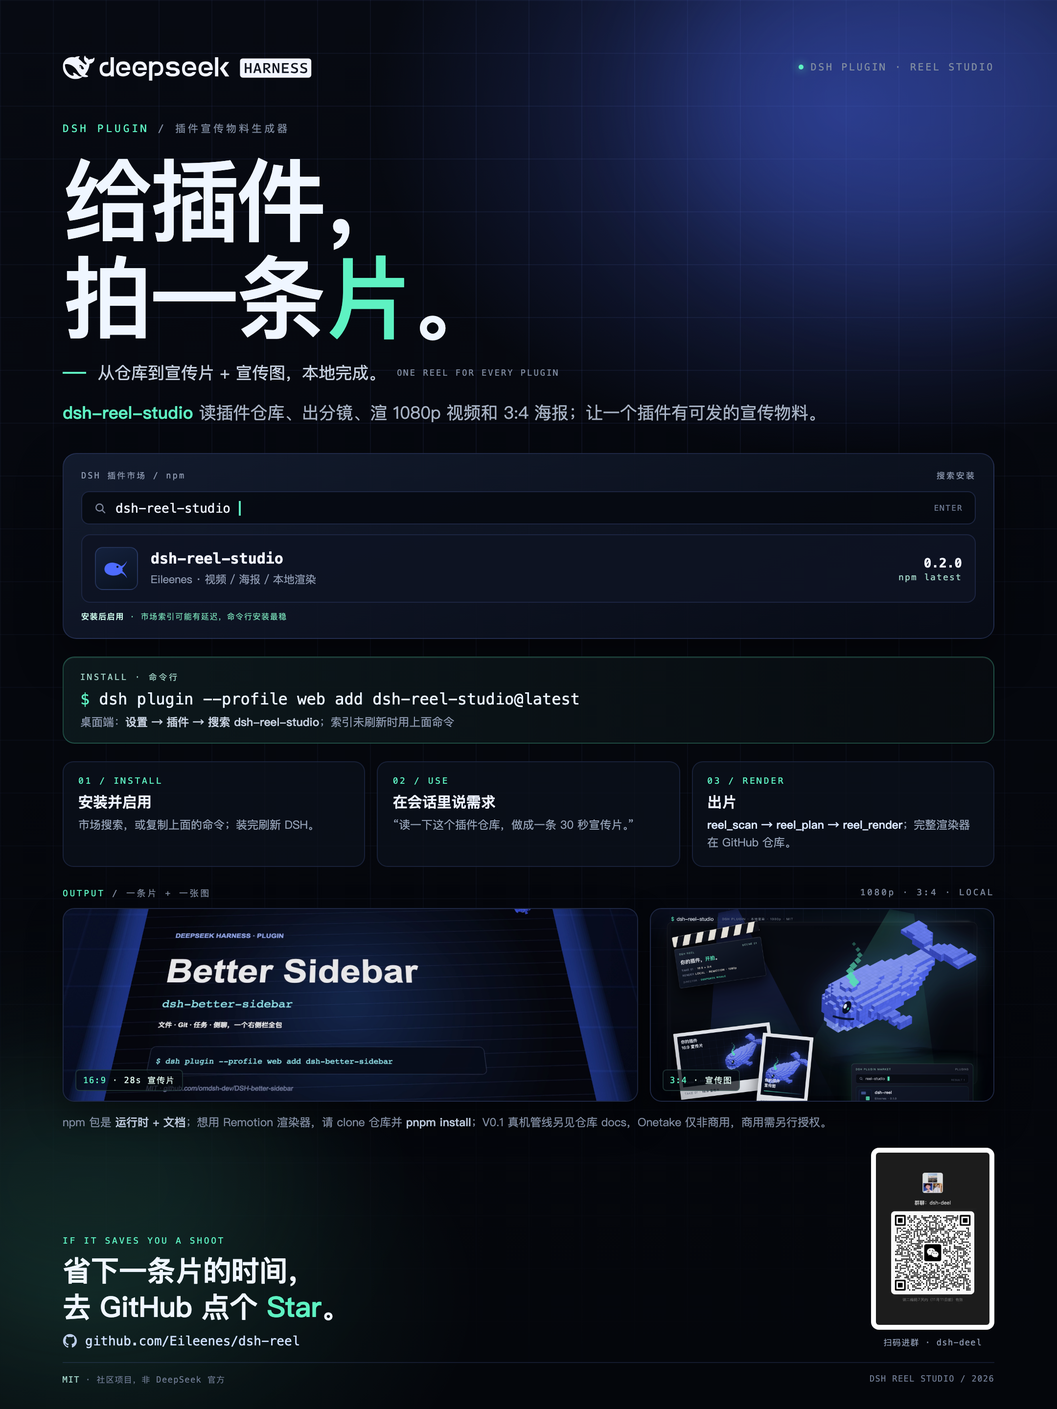
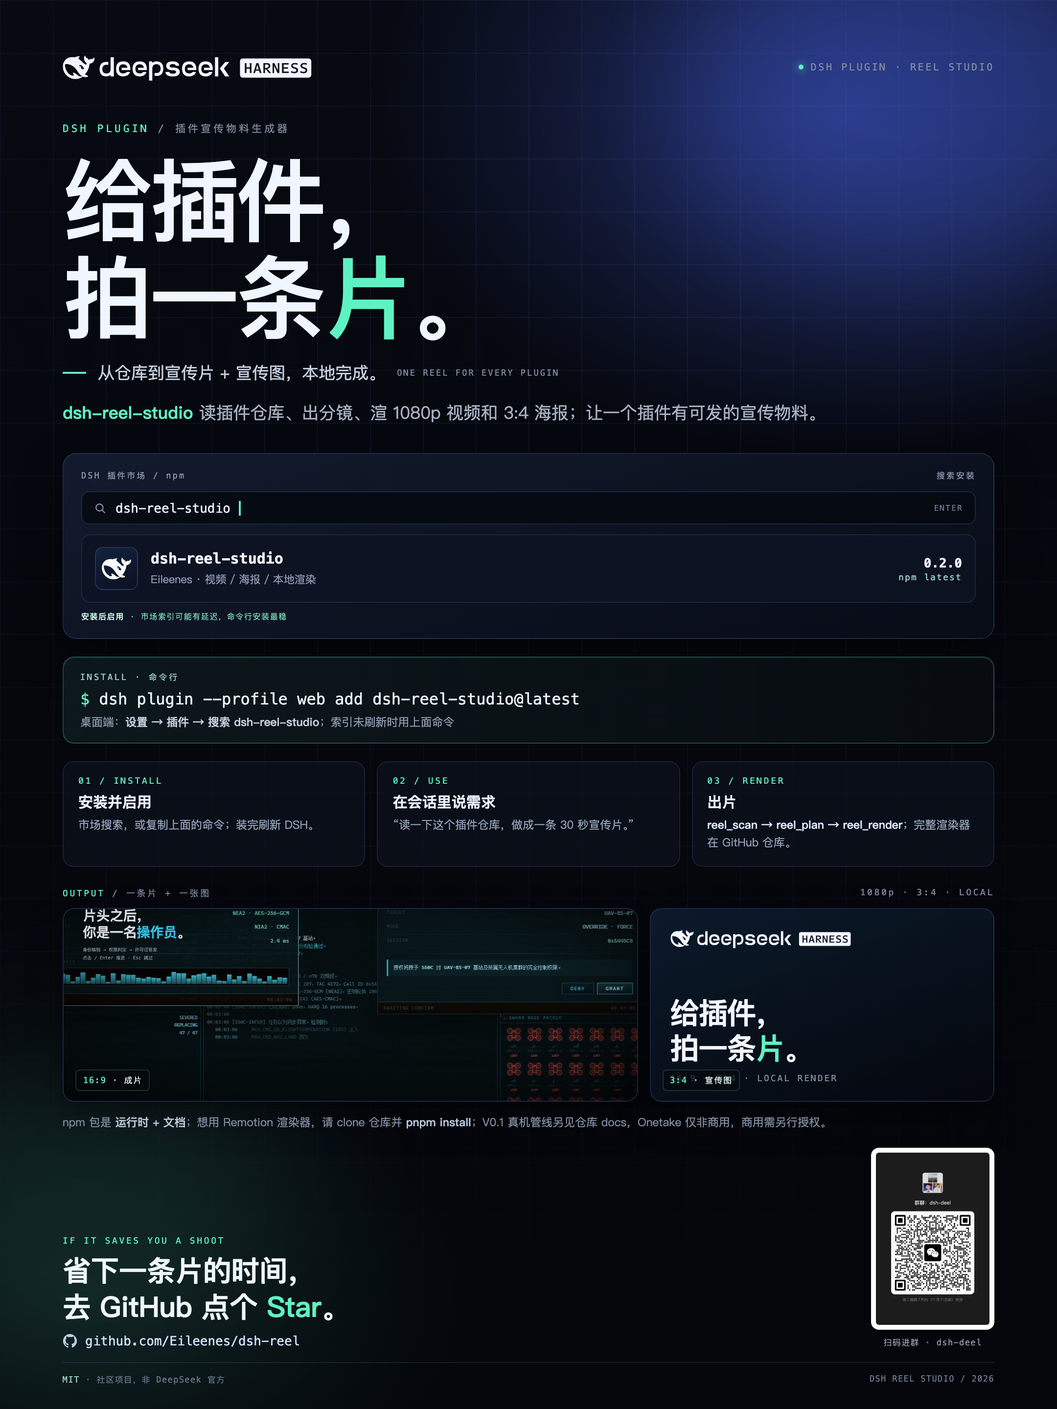
docs(poster): replace all poster whales with official DSH mark

Changed region(s): [[0.062, 0.625, 0.9306, 0.7812], [0.0931, 0.375, 0.1241, 0.4062]]

diff --git a/design/install-poster.html b/design/install-poster.html
@@ -52,7 +52,7 @@
   .mk-search .hint{margin-left:auto;font-family:var(--mono);font-size:8px;letter-spacing:.14em;color:#6f7b93}
   .mk-card{margin-top:10px;display:flex;align-items:center;gap:13px;padding:12px 13px;border-radius:9px;background:rgba(13,19,34,.9);border:1px solid rgba(120,150,255,.14)}
   .mk-ico{width:44px;height:44px;border-radius:8px;flex:none;display:flex;align-items:center;justify-content:center;background:linear-gradient(160deg,#14213d,#0a1220);border:1px solid rgba(120,150,255,.22)}
-  .mk-ico svg{width:30px;height:19px}
+  .mk-ico svg{width:30px;height:22px;display:block}
   .mk-name{font-family:var(--mono);font-size:15px;font-weight:600;color:#f2f5ff}
   .mk-meta{margin-top:4px;font-size:11px;color:#8d99b0}
   .mk-ver{margin-left:auto;text-align:right;font-family:var(--mono);font-size:9px;letter-spacing:.12em;color:#9ecfc3}
@@ -82,6 +82,11 @@
   .out-card img{width:100%;height:196px;object-fit:cover;display:block;opacity:.92}
   .out-card .cap{position:absolute;left:12px;bottom:10px;font-family:var(--mono);font-size:8.5px;letter-spacing:.1em;color:#dff7ee;background:rgba(4,8,14,.7);border:1px solid rgba(120,200,180,.2);border-radius:4px;padding:4px 7px}
   .out-card .cap b{color:var(--accent);font-weight:500}
+  .poster-mock{background:linear-gradient(160deg,#0b1a2b,#05070d);padding:18px 20px;display:flex;flex-direction:column;justify-content:space-between}
+  .poster-mock .pm-dsh-logo{width:190px;height:auto;display:block}
+  .poster-mock .pm-title{margin-top:14px;font-family:var(--sans);font-size:30px;font-weight:700;letter-spacing:-.03em;color:#f2f5ff;line-height:1.2}
+  .poster-mock .pm-title b{color:var(--accent);font-weight:700}
+  .poster-mock .pm-sub{margin-top:8px;font-family:var(--mono);font-size:9px;letter-spacing:.16em;color:#7f8ba0}
   .note{margin-top:13px;font-size:11.5px;line-height:1.55;color:#7f8ba0}
   .note b{color:#b9c6d9;font-weight:500}
 
@@ -124,7 +129,7 @@
       <span class="q">dsh-reel-studio</span><span class="caret"></span><span class="hint">ENTER</span>
     </div>
     <div class="mk-card">
-      <div class="mk-ico"><svg viewBox="0 0 40 26"><path d="M3.2 13.2C3.2 6.6 9.6 3.2 16.2 4.2 22.8 5.2 28.6 9 28.6 13.8 28.6 19 22.2 22.2 15.7 22.2 9.2 22.2 3.2 19 3.2 13.2Z" fill="#4D6BFE"/><path d="M27.6 12.4C31 9.2 33.8 5.6 34.8 1.6 32.2 5.8 29.4 8.2 26 9.2L27.6 12.4Z" fill="#4D6BFE"/><path d="M27.6 15.2C31 18.4 33.8 22 34.8 26 32.2 21.8 29.4 19.4 26 18.4L27.6 15.2Z" fill="#4D6BFE"/><circle cx="21.4" cy="10" r="1.5" fill="#0a1220"/></svg></div>
+      <div class="mk-ico"><svg class="dsh-whale" viewBox="0.14 3.5 23.16 17.04" aria-hidden="true"><path d="M23.0584 4.95215C22.8129 4.83215 22.7074 5.06116 22.5639 5.17716C22.5149 5.21466 22.4734 5.26366 22.4319 5.30866C22.0734 5.69167 21.6543 5.94318 21.1073 5.91318C20.3073 5.86818 19.6243 6.11969 19.0203 6.73171C18.8918 5.97718 18.4652 5.52667 17.8162 5.23766C17.4767 5.08766 17.1332 4.93715 16.8952 4.61064C16.7292 4.37814 16.6837 4.11913 16.6007 3.86362C16.5477 3.70962 16.4952 3.55211 16.3177 3.52561C16.1252 3.49561 16.0497 3.65711 15.9742 3.79212C15.6722 4.34413 15.5552 4.95215 15.5667 5.56817C15.5932 6.95371 16.1782 8.05725 17.3407 8.84227C17.4727 8.93227 17.5067 9.02227 17.4652 9.15378C17.3857 9.42429 17.2917 9.68679 17.2087 9.9573C17.1557 10.1298 17.0767 10.1678 16.8917 10.0923C16.2537 9.8258 15.7027 9.43129 15.2156 8.95477C14.3891 8.15525 13.6416 7.27272 12.7096 6.5817C12.4906 6.4202 12.2716 6.27019 12.045 6.12719C11.094 5.20366 12.1696 4.44514 12.4186 4.35513C12.6791 4.26113 12.5091 3.93812 11.6675 3.94212C10.826 3.94562 10.056 4.22763 9.07446 4.60314C8.93096 4.65964 8.77995 4.70065 8.62545 4.73465C7.73492 4.56564 6.80989 4.52814 5.84386 4.63714C4.02481 4.83965 2.57177 5.69967 1.50373 7.16772C0.220694 8.93227 -0.0813148 10.9373 0.288196 13.0284C0.676708 15.2325 1.80174 17.057 3.53029 18.4836C5.32285 19.9626 7.38741 20.6876 9.74298 20.5486C11.1735 20.4661 12.7661 20.2746 14.5626 18.7541C15.0156 18.9796 15.4912 19.0696 16.2797 19.1371C16.8872 19.1936 17.4722 19.1071 17.9252 19.0131C18.6347 18.8631 18.5857 18.2061 18.3292 18.0855C16.2497 17.117 16.7062 17.511 16.2912 17.192C17.3477 15.942 18.9618 13.7199 19.4598 10.6943C19.5088 10.3603 19.5713 9.8898 19.5638 9.61929C19.5598 9.45429 19.5978 9.39029 19.7863 9.37129C20.3073 9.31128 20.8128 9.16878 21.2773 8.91327C22.6249 8.17725 23.1684 6.96821 23.2964 5.51917C23.3154 5.29766 23.2924 5.06866 23.0584 4.95215ZM11.3165 17.9955C9.30097 16.411 8.32344 15.8895 7.91992 15.912C7.54241 15.9345 7.61042 16.3665 7.69342 16.648C7.78042 16.926 7.89342 17.1175 8.05193 17.3615C8.16143 17.523 8.23694 17.763 7.94243 17.9435C7.29341 18.3451 6.16487 17.8085 6.11187 17.782C4.79833 17.0085 3.7003 15.9875 2.92628 14.5909C2.17875 13.2469 1.74474 11.8049 1.67324 10.2658C1.65424 9.8943 1.76374 9.7628 2.13375 9.69529C2.62077 9.60529 3.12278 9.58629 3.6093 9.65779C5.66636 9.9583 7.41741 10.8778 8.88545 12.3349C9.72348 13.1644 10.3575 14.1559 11.0105 15.1245C11.705 16.153 12.4521 17.133 13.4036 17.9365C13.7396 18.2181 14.0076 18.4321 14.2641 18.5901C13.4906 18.6766 12.1996 18.6951 11.3165 17.9965V17.9955ZM12.2826 11.7819C12.2826 11.6169 12.4146 11.4853 12.5806 11.4853C12.6181 11.4853 12.6521 11.4928 12.6826 11.5038C12.7241 11.5188 12.7621 11.5414 12.7921 11.5754C12.8451 11.6279 12.8751 11.7029 12.8751 11.7819C12.8751 11.9469 12.7431 12.0784 12.5771 12.0784C12.4111 12.0784 12.2826 11.9469 12.2826 11.7819ZM15.2831 13.3209C15.0906 13.3999 14.8981 13.4674 14.7131 13.4749C14.4261 13.4899 14.1131 13.3734 13.9431 13.2309C13.6791 13.0094 13.4901 12.8854 13.4111 12.4989C13.3771 12.3339 13.3961 12.0784 13.4261 11.9319C13.4941 11.6164 13.4186 11.4138 13.1961 11.2298C13.0151 11.0798 12.7846 11.0383 12.5316 11.0383C12.4371 11.0383 12.3506 10.9968 12.2861 10.9633C12.1806 10.9108 12.0936 10.7793 12.1766 10.6178C12.2031 10.5653 12.3316 10.4378 12.3616 10.4153C12.7051 10.2198 13.1011 10.2838 13.4676 10.4303C13.8071 10.5693 14.0641 10.8243 14.4336 11.1848C14.8111 11.6204 14.8791 11.7404 15.0941 12.0674C15.2641 12.3229 15.4186 12.5854 15.5247 12.8859C15.5887 13.0734 15.5057 13.2269 15.2831 13.3209Z" fill="var(--harness-logo-foreground, #F9FAFB)"></path></svg></div>
       <div><div class="mk-name">dsh-reel-studio</div><div class="mk-meta">Eileenes · 视频 / 海报 / 本地渲染</div></div>
       <div class="mk-ver"><b>0.2.0</b>npm latest</div>
     </div>
@@ -146,8 +151,12 @@
   <section class="outputs">
     <div class="out-head"><span><b>OUTPUT</b> / 一条片 + 一张图</span><span>1080p · 3:4 · LOCAL</span></div>
     <div class="out-grid">
-      <div class="out-card"><img src="../docs/better-sidebar-endcard.png" alt="宣传片片尾帧"><div class="cap"><b>16:9</b> · 28s 宣传片</div></div>
-      <div class="out-card"><img src="../docs/promo.png" alt="3:4 宣传图"><div class="cap"><b>3:4</b> · 宣传图</div></div>
+      <div class="out-card"><img src="../docs/output-video.png" alt="宣传片输出帧"><div class="cap"><b>16:9</b> · 成片</div></div>
+      <div class="out-card poster-mock">
+        <svg width="187" height="24" style="--harness-logo-foreground:#F2F5FF;--harness-logo-chip-text:#10141f" viewBox="0 0 187 24" fill="none" xmlns="http://www.w3.org/2000/svg" class="pm-dsh-logo" aria-hidden="true"><path d="M68.4157 18.2447H67.0499V16.1272H68.4157C69.2617 16.1272 70.1163 15.9163 70.6668 15.3304C71.2178 14.7444 71.4258 13.8455 71.4258 12.9471C71.4258 12.0487 71.2266 11.1498 70.6668 10.5643C70.1081 9.97831 69.2617 9.76744 68.4157 9.76744C67.5698 9.76744 66.7151 9.97831 66.1636 10.5643C65.6127 11.1503 65.4047 12.0487 65.4047 12.9471V21.6435H63.0088V7.6582H65.4047V8.54883H65.8439C65.8916 8.49393 65.9392 8.44728 65.9873 8.40064C66.5869 7.85353 67.5047 7.6582 68.407 7.6582C69.8209 7.6582 71.2339 8.00998 72.1605 8.98662C73.0866 9.96325 73.4141 11.4632 73.4141 12.9558C73.4141 14.4485 73.0783 15.9406 72.1605 16.925C71.2421 17.9094 69.8209 18.2457 68.4157 18.2457V18.2447Z" fill="var(--harness-logo-foreground, #F9FAFB)"></path><path d="M31.9549 8.03497H33.3202V10.1525H31.9549C31.1084 10.1525 30.2543 10.3633 29.7033 10.9493C29.1523 11.5353 28.9448 12.4342 28.9448 13.3326C28.9448 14.231 29.1445 15.1294 29.7033 15.7154C30.262 16.3014 31.1084 16.5122 31.9549 16.5122C32.8013 16.5122 33.6559 16.3014 34.2069 15.7154C34.7579 15.1294 34.9654 14.231 34.9654 13.3326V4.62842H37.3608V18.6219H34.9654V17.7313H34.5262C34.4781 17.7857 34.4304 17.8329 34.3823 17.8795C33.7832 18.4261 32.8649 18.6219 31.9626 18.6219C30.5492 18.6219 29.1357 18.2707 28.2096 17.294C27.2835 16.3174 26.9561 14.817 26.9561 13.3248C26.9561 11.8327 27.2913 10.34 28.2096 9.35561C29.1357 8.37898 30.5492 8.03497 31.9549 8.03497Z" fill="var(--harness-logo-foreground, #F9FAFB)"></path><path d="M49.3784 13.1434V13.9952H42.9982V12.2999H47.2303C47.1345 11.6828 46.911 11.1046 46.5116 10.6824C45.9368 10.0731 45.0501 9.85445 44.1721 9.85445C43.2941 9.85445 42.4074 10.0731 41.8326 10.6824C41.2577 11.2917 41.0498 12.2217 41.0498 13.1439C41.0498 14.0661 41.2573 15.0034 41.8326 15.6049C42.4074 16.2064 43.2936 16.4334 44.1721 16.4334C45.0506 16.4334 45.9368 16.2147 46.5116 15.6049C46.5913 15.5189 46.6632 15.4251 46.7351 15.3314H49.099C48.8915 16.066 48.564 16.7302 48.0689 17.2458C47.1107 18.2535 45.6336 18.6208 44.1721 18.6208C42.7105 18.6208 41.2335 18.2613 40.2753 17.2458C39.3171 16.2303 38.9658 14.6832 38.9658 13.1439C38.9658 11.6046 39.3093 10.0498 40.2753 9.04205C41.2417 8.03432 42.7105 7.66699 44.1721 7.66699C45.6336 7.66699 47.1107 8.02655 48.0689 9.04205C49.0348 10.0576 49.3784 11.6046 49.3784 13.1439V13.1434Z" fill="var(--harness-logo-foreground, #F9FAFB)"></path><path d="M61.4042 13.1434V13.9952H55.0241V12.2999H59.2561C59.1599 11.6828 58.9369 11.1046 58.5375 10.6824C57.9627 10.0731 57.076 9.85445 56.198 9.85445C55.32 9.85445 54.4332 10.0731 53.8584 10.6824C53.2836 11.2917 53.0757 12.2217 53.0757 13.1439C53.0757 14.0661 53.2831 15.0034 53.8584 15.6049C54.4332 16.2064 55.32 16.4334 56.198 16.4334C57.076 16.4334 57.9627 16.2147 58.5375 15.6049C58.6177 15.5189 58.6891 15.4251 58.7605 15.3314H61.1249C60.9169 16.066 60.5894 16.7302 60.0943 17.2458C59.1361 18.2535 57.659 18.6208 56.198 18.6208C54.7369 18.6208 53.2593 18.2613 52.3012 17.2458C51.343 16.2303 50.9917 14.6832 50.9917 13.1439C50.9917 11.6046 51.3352 10.0498 52.3012 9.04205C53.2676 8.03432 54.7364 7.66699 56.198 7.66699C57.6595 7.66699 59.1361 8.02655 60.0943 9.04205C61.0607 10.0576 61.4042 11.6046 61.4042 13.1439V13.1434Z" fill="var(--harness-logo-foreground, #F9FAFB)"></path><path d="M80.242 18.6218C81.7035 18.6218 83.1801 18.4109 84.1383 17.8094C85.0965 17.2079 85.4482 16.2934 85.4482 15.3872C85.4482 14.4811 85.1042 13.5589 84.1383 12.9651C83.1801 12.3713 81.703 12.1522 80.242 12.1522C79.6186 12.1522 79.0438 12.0662 78.6366 11.8398C78.2294 11.6051 78.0778 11.2538 78.0778 10.902C78.0778 10.5502 78.2216 10.1912 78.6366 9.96426C79.0438 9.72958 79.6749 9.65184 80.2973 9.65184C80.9198 9.65184 81.5509 9.73784 81.9591 9.96426C82.3663 10.1989 82.5179 10.5502 82.5179 10.902H84.9531C84.9531 9.99536 84.6421 9.07363 83.7719 8.47988C82.9017 7.88613 81.5679 7.66699 80.2424 7.66699C78.9169 7.66699 77.5837 7.87787 76.713 8.47988C75.8427 9.08141 75.5308 9.99536 75.5308 10.902C75.5308 11.8087 75.8423 12.7304 76.713 13.3242C77.5832 13.9179 78.9165 14.1371 80.2424 14.1371C80.929 14.1371 81.688 14.2231 82.1428 14.4495C82.5985 14.6764 82.7579 15.0355 82.7579 15.3872C82.7579 15.739 82.5985 16.0981 82.1428 16.325C81.688 16.5514 80.9931 16.6374 80.3066 16.6374C79.62 16.6374 78.9169 16.5514 78.4694 16.325C78.0224 16.0986 77.8543 15.739 77.8543 15.3872H75.0435C75.0435 16.2939 75.3865 17.2156 76.3534 17.8094C77.3194 18.4031 78.7809 18.6218 80.2424 18.6218H80.242Z" fill="var(--harness-logo-foreground, #F9FAFB)"></path><path d="M97.4731 13.1434V13.9952H91.0929V12.2999H95.325C95.2298 11.6828 95.0058 11.1046 94.6068 10.6824C94.0311 10.0731 93.1453 9.85445 92.2663 9.85445C91.3874 9.85445 90.5016 10.0731 89.9268 10.6824C89.352 11.2917 89.145 12.2217 89.145 13.1439C89.145 14.0661 89.352 15.0034 89.9268 15.6049C90.5016 16.2064 91.3883 16.4334 92.2663 16.4334C93.1443 16.4334 94.0311 16.2147 94.6068 15.6049C94.686 15.5189 94.7585 15.4251 94.8299 15.3314H97.1932C96.9853 16.066 96.6583 16.7302 96.1636 17.2458C95.2055 18.2535 93.7279 18.6208 92.2663 18.6208C90.8048 18.6208 89.3282 18.2613 88.37 17.2458C87.4118 16.2303 87.061 14.6832 87.061 13.1439C87.061 11.6046 87.4041 10.0498 88.37 9.04205C89.3364 8.03432 90.8058 7.66699 92.2663 7.66699C93.7269 7.66699 95.2055 8.02655 96.1636 9.04205C97.1296 10.0576 97.4726 11.6046 97.4726 13.1439L97.4731 13.1434Z" fill="var(--harness-logo-foreground, #F9FAFB)"></path><path d="M109.499 13.1434V13.9952H103.119V12.2999H107.351C107.256 11.6828 107.032 11.1046 106.632 10.6824C106.057 10.0731 105.172 9.85445 104.293 9.85445C103.414 9.85445 102.528 10.0731 101.953 10.6824C101.378 11.2917 101.17 12.2217 101.17 13.1439C101.17 14.0661 101.378 15.0034 101.953 15.6049C102.528 16.2064 103.415 16.4334 104.293 16.4334C105.171 16.4334 106.057 16.2147 106.632 15.6049C106.712 15.5189 106.784 15.4251 106.856 15.3314H109.22C109.012 16.066 108.685 16.7302 108.19 17.2458C107.231 18.2535 105.754 18.6208 104.293 18.6208C102.831 18.6208 101.355 18.2613 100.396 17.2458C99.4382 16.2303 99.0864 14.6832 99.0864 13.1439C99.0864 11.6046 99.4295 10.0498 100.396 9.04205C101.362 8.03432 102.832 7.66699 104.293 7.66699C105.754 7.66699 107.231 8.02655 108.19 9.04205C109.156 10.0576 109.499 11.6046 109.499 13.1439V13.1434Z" fill="var(--harness-logo-foreground, #F9FAFB)"></path><path d="M113.499 4.62842H111.104V18.622H113.499V4.62842Z" fill="var(--harness-logo-foreground, #F9FAFB)"></path><path d="M117.588 12.8154L121.516 18.6208H118.554L114.625 12.8154L118.554 8.15088H121.516L117.588 12.8154Z" fill="var(--harness-logo-foreground, #F9FAFB)"></path><g clip-path="url(#harness-logo-whale)"><path d="M23.0584 4.95215C22.8129 4.83215 22.7074 5.06116 22.5639 5.17716C22.5149 5.21466 22.4734 5.26366 22.4319 5.30866C22.0734 5.69167 21.6543 5.94318 21.1073 5.91318C20.3073 5.86818 19.6243 6.11969 19.0203 6.73171C18.8918 5.97718 18.4652 5.52667 17.8162 5.23766C17.4767 5.08766 17.1332 4.93715 16.8952 4.61064C16.7292 4.37814 16.6837 4.11913 16.6007 3.86362C16.5477 3.70962 16.4952 3.55211 16.3177 3.52561C16.1252 3.49561 16.0497 3.65711 15.9742 3.79212C15.6722 4.34413 15.5552 4.95215 15.5667 5.56817C15.5932 6.95371 16.1782 8.05725 17.3407 8.84227C17.4727 8.93227 17.5067 9.02227 17.4652 9.15378C17.3857 9.42429 17.2917 9.68679 17.2087 9.9573C17.1557 10.1298 17.0767 10.1678 16.8917 10.0923C16.2537 9.8258 15.7027 9.43129 15.2156 8.95477C14.3891 8.15525 13.6416 7.27272 12.7096 6.5817C12.4906 6.4202 12.2716 6.27019 12.045 6.12719C11.094 5.20366 12.1696 4.44514 12.4186 4.35513C12.6791 4.26113 12.5091 3.93812 11.6675 3.94212C10.826 3.94562 10.056 4.22763 9.07446 4.60314C8.93096 4.65964 8.77995 4.70065 8.62545 4.73465C7.73492 4.56564 6.80989 4.52814 5.84386 4.63714C4.02481 4.83965 2.57177 5.69967 1.50373 7.16772C0.220694 8.93227 -0.0813148 10.9373 0.288196 13.0284C0.676708 15.2325 1.80174 17.057 3.53029 18.4836C5.32285 19.9626 7.38741 20.6876 9.74298 20.5486C11.1735 20.4661 12.7661 20.2746 14.5626 18.7541C15.0156 18.9796 15.4912 19.0696 16.2797 19.1371C16.8872 19.1936 17.4722 19.1071 17.9252 19.0131C18.6347 18.8631 18.5857 18.2061 18.3292 18.0855C16.2497 17.117 16.7062 17.511 16.2912 17.192C17.3477 15.942 18.9618 13.7199 19.4598 10.6943C19.5088 10.3603 19.5713 9.8898 19.5638 9.61929C19.5598 9.45429 19.5978 9.39029 19.7863 9.37129C20.3073 9.31128 20.8128 9.16878 21.2773 8.91327C22.6249 8.17725 23.1684 6.96821 23.2964 5.51917C23.3154 5.29766 23.2924 5.06866 23.0584 4.95215ZM11.3165 17.9955C9.30097 16.411 8.32344 15.8895 7.91992 15.912C7.54241 15.9345 7.61042 16.3665 7.69342 16.648C7.78042 16.926 7.89342 17.1175 8.05193 17.3615C8.16143 17.523 8.23694 17.763 7.94243 17.9435C7.29341 18.3451 6.16487 17.8085 6.11187 17.782C4.79833 17.0085 3.7003 15.9875 2.92628 14.5909C2.17875 13.2469 1.74474 11.8049 1.67324 10.2658C1.65424 9.8943 1.76374 9.7628 2.13375 9.69529C2.62077 9.60529 3.12278 9.58629 3.6093 9.65779C5.66636 9.9583 7.41741 10.8778 8.88545 12.3349C9.72348 13.1644 10.3575 14.1559 11.0105 15.1245C11.705 16.153 12.4521 17.133 13.4036 17.9365C13.7396 18.2181 14.0076 18.4321 14.2641 18.5901C13.4906 18.6766 12.1996 18.6951 11.3165 17.9965V17.9955ZM12.2826 11.7819C12.2826 11.6169 12.4146 11.4853 12.5806 11.4853C12.6181 11.4853 12.6521 11.4928 12.6826 11.5038C12.7241 11.5188 12.7621 11.5414 12.7921 11.5754C12.8451 11.6279 12.8751 11.7029 12.8751 11.7819C12.8751 11.9469 12.7431 12.0784 12.5771 12.0784C12.4111 12.0784 12.2826 11.9469 12.2826 11.7819ZM15.2831 13.3209C15.0906 13.3999 14.8981 13.4674 14.7131 13.4749C14.4261 13.4899 14.1131 13.3734 13.9431 13.2309C13.6791 13.0094 13.4901 12.8854 13.4111 12.4989C13.3771 12.3339 13.3961 12.0784 13.4261 11.9319C13.4941 11.6164 13.4186 11.4138 13.1961 11.2298C13.0151 11.0798 12.7846 11.0383 12.5316 11.0383C12.4371 11.0383 12.3506 10.9968 12.2861 10.9633C12.1806 10.9108 12.0936 10.7793 12.1766 10.6178C12.2031 10.5653 12.3316 10.4378 12.3616 10.4153C12.7051 10.2198 13.1011 10.2838 13.4676 10.4303C13.8071 10.5693 14.0641 10.8243 14.4336 11.1848C14.8111 11.6204 14.8791 11.7404 15.0941 12.0674C15.2641 12.3229 15.4186 12.5854 15.5247 12.8859C15.5887 13.0734 15.5057 13.2269 15.2831 13.3209Z" fill="var(--harness-logo-foreground, #F9FAFB)"></path></g><rect x="129.348" y="5.5" width="52" height="14" rx="2" fill="var(--harness-logo-foreground, #F9FAFB)"></rect><g clip-path="url(#harness-logo-chip)"><path d="M132.848 8.9318H134.08V16.1368H132.848V8.9318ZM136.5 8.9318H137.732V16.1368H136.5V8.9318ZM133.365 13.0238V11.9898H137.193V13.0238H133.365Z" fill="var(--harness-logo-chip-text, #353638)"></path><path d="M140.396 14.4318L140.671 13.4528H143.201L143.531 14.4318H140.396ZM140.286 16.1368H139.054L141.276 8.9318H142.2L142.145 9.7458L140.946 13.9148H140.968L140.286 16.1368ZM145.038 16.1368H143.74L143.069 13.9478L143.08 13.9368L141.87 9.7458L141.925 8.9318H142.816L145.038 16.1368Z" fill="var(--harness-logo-chip-text, #353638)"></path><path d="M146.845 8.9318H149.067C149.852 8.9318 150.442 9.11514 150.838 9.48181C151.234 9.84114 151.432 10.3325 151.432 10.9558C151.432 11.2198 151.396 11.4655 151.322 11.6928C151.249 11.9201 151.124 12.1255 150.948 12.3088C150.772 12.4921 150.53 12.6498 150.222 12.7818C149.922 12.9065 149.54 13.0055 149.078 13.0788V13.3208H146.845V12.6388L148.022 12.4848C148.631 12.4041 149.089 12.2978 149.397 12.1658C149.705 12.0338 149.914 11.8761 150.024 11.6928C150.134 11.5021 150.189 11.2931 150.189 11.0658C150.189 10.6991 150.083 10.4168 149.87 10.2188C149.658 10.0208 149.324 9.92181 148.869 9.92181H146.845V8.9318ZM146.394 8.9318H147.626V16.1368H146.394V8.9318ZM151.916 16.0928V16.1368H150.365L149.023 14.3218C148.869 14.1091 148.73 13.9405 148.605 13.8158C148.481 13.6838 148.345 13.5885 148.198 13.5298C148.052 13.4638 147.872 13.4198 147.659 13.3978C147.447 13.3685 147.175 13.3501 146.845 13.3428V13.1448H149.078C149.232 13.2108 149.368 13.2841 149.485 13.3648C149.61 13.4455 149.735 13.5445 149.859 13.6618C149.991 13.7791 150.138 13.9368 150.299 14.1348L151.916 16.0928Z" fill="var(--harness-logo-chip-text, #353638)"></path><path d="M153.58 9.56981L153.591 8.9318H154.46L157.584 15.5098V16.1368H156.704L153.58 9.56981ZM158.024 16.1368H156.968L156.88 8.9318H158.024V16.1368ZM154.24 16.1368H153.096V8.9318H154.152L154.24 16.1368Z" fill="var(--harness-logo-chip-text, #353638)"></path><path d="M159.963 8.9318H161.206V16.1368H159.963V8.9318ZM160.095 9.9658V8.9318H164.858V9.9658H160.095ZM160.095 16.1368V15.1028H164.902V16.1368H160.095ZM160.095 13.0128V11.9898H164.374V13.0128H160.095Z" fill="var(--harness-logo-chip-text, #353638)"></path><path d="M169.052 15.2568C169.543 15.2568 169.895 15.1651 170.108 14.9818C170.328 14.7985 170.438 14.5455 170.438 14.2228C170.438 14.0468 170.405 13.8965 170.339 13.7718C170.273 13.6471 170.152 13.5335 169.976 13.4308C169.807 13.3208 169.558 13.2145 169.228 13.1118L168.491 12.8808C167.846 12.6755 167.38 12.4041 167.094 12.0668C166.808 11.7295 166.665 11.3005 166.665 10.7798C166.665 10.4278 166.76 10.1015 166.951 9.8008C167.142 9.50014 167.428 9.25814 167.809 9.07481C168.19 8.89147 168.663 8.7998 169.228 8.7998C169.631 8.7998 169.998 8.82914 170.328 8.8878C170.665 8.93914 171.039 9.01614 171.45 9.11881L171.274 10.1748C170.834 10.0501 170.442 9.96214 170.097 9.9108C169.76 9.85214 169.463 9.82281 169.206 9.82281C168.737 9.82281 168.403 9.90714 168.205 10.0758C168.007 10.2371 167.908 10.4388 167.908 10.6808C167.908 10.8568 167.941 11.0145 168.007 11.1538C168.073 11.2858 168.19 11.4068 168.359 11.5168C168.535 11.6268 168.784 11.7331 169.107 11.8358L169.866 12.0778C170.526 12.2758 170.995 12.5325 171.274 12.8478C171.553 13.1558 171.692 13.5848 171.692 14.1348C171.692 14.5601 171.589 14.9341 171.384 15.2568C171.179 15.5795 170.878 15.8325 170.482 16.0158C170.093 16.1991 169.609 16.2908 169.03 16.2908C168.627 16.2908 168.212 16.2468 167.787 16.1588C167.362 16.0708 166.9 15.9425 166.401 15.7738L166.665 14.7178C167.156 14.8938 167.6 15.0295 167.996 15.1248C168.399 15.2128 168.751 15.2568 169.052 15.2568Z" fill="var(--harness-logo-chip-text, #353638)"></path><path d="M175.809 15.2568C176.3 15.2568 176.652 15.1651 176.865 14.9818C177.085 14.7985 177.195 14.5455 177.195 14.2228C177.195 14.0468 177.162 13.8965 177.096 13.7718C177.03 13.6471 176.909 13.5335 176.733 13.4308C176.564 13.3208 176.315 13.2145 175.985 13.1118L175.248 12.8808C174.602 12.6755 174.137 12.4041 173.851 12.0668C173.565 11.7295 173.422 11.3005 173.422 10.7798C173.422 10.4278 173.517 10.1015 173.708 9.8008C173.898 9.50014 174.184 9.25814 174.566 9.07481C174.947 8.89147 175.42 8.7998 175.985 8.7998C176.388 8.7998 176.755 8.82914 177.085 8.8878C177.422 8.93914 177.796 9.01614 178.207 9.11881L178.031 10.1748C177.591 10.0501 177.198 9.96214 176.854 9.9108C176.516 9.85214 176.219 9.82281 175.963 9.82281C175.493 9.82281 175.16 9.90714 174.962 10.0758C174.764 10.2371 174.665 10.4388 174.665 10.6808C174.665 10.8568 174.698 11.0145 174.764 11.1538C174.83 11.2858 174.947 11.4068 175.116 11.5168C175.292 11.6268 175.541 11.7331 175.864 11.8358L176.623 12.0778C177.283 12.2758 177.752 12.5325 178.031 12.8478C178.309 13.1558 178.449 13.5848 178.449 14.1348C178.449 14.5601 178.346 14.9341 178.141 15.2568C177.935 15.5795 177.635 15.8325 177.239 16.0158C176.85 16.1991 176.366 16.2908 175.787 16.2908C175.383 16.2908 174.969 16.2468 174.544 16.1588C174.118 16.0708 173.656 15.9425 173.158 15.7738L173.422 14.7178C173.913 14.8938 174.357 15.0295 174.753 15.1248C175.156 15.2128 175.508 15.2568 175.809 15.2568Z" fill="var(--harness-logo-chip-text, #353638)"></path></g><defs><clipPath id="harness-logo-whale"><rect width="23.16" height="17.0435" fill="white" transform="translate(0.141602 3.52197)"></rect></clipPath><clipPath id="harness-logo-chip"><rect width="46" height="14" fill="white" transform="translate(132.348 5.5)"></rect></clipPath></defs></svg>
+        <div><div class="pm-title">给插件，<br>拍一条<b>片</b>。</div><div class="pm-sub">16:9 + 3:4 · LOCAL RENDER</div></div>
+        <div class="cap"><b>3:4</b> · 宣传图</div>
+      </div>
     </div>
   </section>
 

diff --git a/README.md b/README.md
@@ -12,7 +12,7 @@
 ![Video](https://img.shields.io/badge/video-16%3A9-F59E0B?style=flat-square)
 ![License](https://img.shields.io/badge/license-MIT-334155?style=flat-square)
 
-**[下载源码](https://github.com/Eileenes/dsh-reel/archive/refs/heads/main.zip)** · **[快速开始](#quick-start)** · **[观看 24 秒样片](docs/demo.mp4)** · **[查看新版宣传图](docs/promo.png)** · **[编辑案例](#cases)** · **[插件接入](#host-plugin)**
+**[下载源码](https://github.com/Eileenes/dsh-reel/archive/refs/heads/main.zip)** · **[快速开始](#quick-start)** · **[观看 24 秒样片](docs/demo.mp4)** · **[查看安装海报](docs/install-poster.png)** · **[编辑案例](#cases)** · **[插件接入](#host-plugin)**
 
 </div>
 
@@ -35,9 +35,9 @@
 
 ## 样片与素材
 
-[观看 24 秒 campaign 片](docs/demo.mp4) · [3:4 海报](docs/promo.png) · [16:9 封面](docs/poster.png) · [1:1 方图](docs/promo-1x1.png) · [关键帧](docs/stills/)
+[观看 24 秒 campaign 片](docs/demo.mp4) · [3:4 安装海报](docs/install-poster.png) · [campaign 海报](docs/promo.png) · [16:9 封面](docs/poster.png) · [1:1 方图](docs/promo-1x1.png) · [关键帧](docs/stills/)
 
-![dsh-reel-studio campaign 海报](docs/promo.png)
+![dsh-reel-studio 安装使用海报](docs/install-poster.png)
 
 新版 campaign 讲的是 dsh-reel-studio 自己：在 DSH 插件市场里搜到它、安装、让它把一个插件仓库读成一条片子和一张图。片中市场界面按真实 dshmarket / DSH 插件页结构重建，文案逐字取自已核对文案；**不包含伪造的下载量、星数或"官方认证"**。
 
